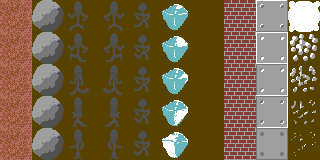
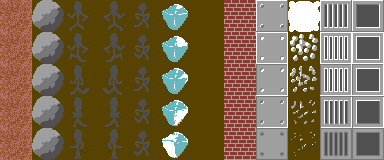
Trying to create exit

diff --git a/map.c b/map.c
@@ -5,18 +5,20 @@
 #include <string.h>
 
 char *block_name(block_type b) {
-  switch (b) {
-  case DIRT: return "DIRT";
-  case ROCK: return "ROCK";
-  case ROCKFORD: return "ROCKFORD";
-  case DIAMOND: return "DIAMOND";
-  case AIR: return "AIR";
-  case BRICK: return "BRICK";
-  case STEEL: return "STEEL";
-  case DUST: return "DUST";
-  case NUM_BLOCKS: return "NUM_BLOCKS";
-  }
-  return "NOT A BLOCK";
+	switch (b) {
+	case DIRT: return "DIRT";
+	case ROCK: return "ROCK";
+	case ROCKFORD: return "ROCKFORD";
+	case DIAMOND: return "DIAMOND";
+	case AIR: return "AIR";
+	case BRICK: return "BRICK";
+	case STEEL: return "STEEL";
+	case DUST: return "DUST";
+	case CLOSED_EXIT: return "EXIT";
+	case OPEN_EXIT: return "EXIT";
+	case NUM_BLOCKS: return "NUM_BLOCKS";
+}
+return "NOT A BLOCK";
 }
 
 void write_block(FILE *f, int x, int y, map m) {
@@ -67,129 +69,152 @@ map map_from_file(FILE *f) {
 }
 
 block create_block(block_type type) {
-  block b;
-  b.type = type;
-  b.properties = 0x0;
-  switch (type) {
-  case DIRT:
-    b.properties |= IT_COLLIDES | IS_DIGGABLE;
-    break;
-  case ROCK:
-    b.properties |= HAS_GRAVITY | IT_COLLIDES | IS_UNSTABLE | IS_PUSHABLE;
-    break;
-  case ROCKFORD:
-    b.properties |= IT_COLLIDES;
-    break;
-  case DIAMOND:
-    b.properties |= HAS_GRAVITY | IT_COLLIDES | IS_UNSTABLE | IS_DIGGABLE;
-    break;
-  case AIR:
-    break;
-  case BRICK:
-    b.properties |= IT_COLLIDES;
-    break;
-  case STEEL:
-    b.properties |= IT_COLLIDES | IS_UNSTABLE | UNBREAKABLE;
-    break;
-  case DUST:
-    b.properties |= IT_COLLIDES | IS_DIGGABLE | DOES_VANISH;
-    break;
-  default:
-    fprintf(stderr, "ERROR: received weird block type \"%s\"\n",
-            block_name(type));
-    break;
-  }
-  return b;
+	block b;
+	b.type = type;
+	b.properties = 0x0;
+	switch (type) {
+	case DIRT:
+		b.properties |= IT_COLLIDES | IS_DIGGABLE;
+		break;
+	case ROCK:
+		b.properties |= HAS_GRAVITY | IT_COLLIDES | IS_UNSTABLE | IS_PUSHABLE;
+		break;
+	case ROCKFORD:
+		b.properties |= IT_COLLIDES;
+		break;
+	case DIAMOND:
+	  b.properties |= HAS_GRAVITY | IT_COLLIDES | IS_UNSTABLE | IS_DIGGABLE;
+	  break;
+	case AIR:
+	  break;
+	case BRICK:
+	  b.properties |= IT_COLLIDES;
+	  break;
+	case STEEL:
+	  b.properties |= IT_COLLIDES | IS_UNSTABLE | UNBREAKABLE;
+	  break;
+	case DUST:
+	  b.properties |= IT_COLLIDES | IS_DIGGABLE | DOES_VANISH;
+	  break;
+	case CLOSED_EXIT:
+	  b.properties |= IT_COLLIDES | UNBREAKABLE;
+	  break;
+	case OPEN_EXIT:
+	  b.properties |= IS_DIGGABLE;
+	  break;
+	default:
+	  fprintf(stderr, "ERROR: received weird block type \"%s\"\n",
+	          block_name(type));
+	  break;
+	}
+return b;
 }
 
 map map_from_string(char *map_str) {
-  map m;
-  int total_len = strlen(map_str);
-  m.width = 0;
-  m.height = 0;
+	map m;
+	int total_len = strlen(map_str);
+	m.width = 0;
+	m.height = 0;
+	m.rockford_x = 0;
+	m.rockford_y = 0;
+	m.exit_x = 0;
+	m.exit_y = 0;
+	
+	// find out the width of the map
+	for (m.width = 0; map_str[m.width] != '\n'; m.width++);
+	
+	// Because total_len counts '\n', we have height-1 lines with '\n'
+	// and one without '\n'. Thus:
+	// total_len = (width + 1) * ( height - 1) + width
+	//   = width * height - width + height - 1 + width
+	//   = width * height + height - 1
+	//   = (width + 1) * height - 1
+	//   => (total_len + 1) / (width + 1) = height
+	m.height = (total_len + 1) / (m.width + 1);
+	
+	fprintf(stderr, "Reading a map with width %d and height %d\n", m.width,
+	        m.height);
+	
+	m.board = calloc(m.width * m.height, sizeof(*(m.board)));
+	if (!m.board) {
+		fprintf(stderr, "ERROR: Could not allocate memory for the board\n");
+		exit(1);
+	}
+	
+	for (int y = 0; y < m.height; y++) {
+		for (int x = 0; x < m.width; x++) {
+			char c = map_str[y * (m.width + 1) + x]; 
+			switch (c) {
+			case 'D':
+				m.board[y * m.width + x] = create_block(DIRT);
+				break;
+			case 'O':
+				m.board[y * m.width + x] = create_block(ROCK);
+				break;
+			case 'R':
+				m.board[y * m.width + x] = create_block(ROCKFORD);
+				m.rockford_x = x;
+				m.rockford_y = y;
+				break;
+			case '*':
+				m.needed_diamonds++; // count the amount of diamonds
+				m.board[y * m.width + x] = create_block(DIAMOND);
+				break;
+			case ' ':
+				m.board[y * m.width + x] = create_block(AIR);
+				break;
+			case '#':
+				m.board[y * m.width + x] = create_block(BRICK);
+				break;
+			case '%':
+				m.board[y * m.width + x] = create_block(STEEL);
+				break;
+			case '@':
+				m.board[y * m.width + x] = create_block(DUST);
+				break;
+			case 'E':
+				m.board[y * m.width + x] = create_block(CLOSED_EXIT);
+				m.exit_x = x;
+				m.exit_y = y;
+				break;
+			case 'e':
+				m.board[y * m.width + x] = create_block(OPEN_EXIT);
+				m.exit_x = x;
+				m.exit_y = y;
+			default:
+				fprintf(stderr, "Unexpected '%c' (0x%x) while reading a map.\n", c, c);
+			}
+		}
+}
 
-  // find out the width of the map
-  for (m.width = 0; map_str[m.width] != '\n'; m.width++);
-
-  // Because total_len counts '\n', we have height-1 lines with '\n'
-  // and one without '\n'. Thus:
-  // total_len = (width + 1) * ( height - 1) + width
-  //   = width * height - width + height - 1 + width
-  //   = width * height + height - 1
-  //   = (width + 1) * height - 1
-  //   => (total_len + 1) / (width + 1) = height
-  m.height = (total_len + 1) / (m.width + 1);
-
-  fprintf(stderr, "Reading a map with width %d and height %d\n", m.width,
-          m.height);
-
-  m.board = calloc(m.width * m.height, sizeof(*(m.board)));
-  if (!m.board) {
-    fprintf(stderr, "ERROR: Could not allocate memory for the board\n");
-    exit(1);
-  }
-
-  for (int y = 0; y < m.height; y++) {
-    for (int x = 0; x < m.width; x++) {
-      char c = map_str[y * (m.width + 1) + x]; 
-      switch (c) {
-      case 'D':
-        m.board[y * m.width + x] = create_block(DIRT);
-        break;
-      case 'O':
-        m.board[y * m.width + x] = create_block(ROCK);
-        break;
-      case 'R':
-        m.board[y * m.width + x] = create_block(ROCKFORD);
-        m.rockford_x = x;
-        m.rockford_y = y;
-        break;
-      case '*':
-		m.needed_diamonds++; // count the amount of diamonds
-        m.board[y * m.width + x] = create_block(DIAMOND);
-        break;
-      case ' ':
-        m.board[y * m.width + x] = create_block(AIR);
-        break;
-      case '#':
-        m.board[y * m.width + x] = create_block(BRICK);
-        break;
-      case '%':
-        m.board[y * m.width + x] = create_block(STEEL);
-        break;
-      case '@':
-        m.board[y * m.width + x] = create_block(DUST);
-        break;
-      default:
-        fprintf(stderr, "Unexpected '%c' (0x%x) while reading a map.\n", c, c);
-      }
-    }
-  }
-
-  return m;
+return m;
 }
 
 static char block_char(block_type b) {
-  switch (b) {
-  case DIRT:
-    return 'D';
-  case ROCK:
-    return 'O';
-  case ROCKFORD:
-    return 'R';
-  case DIAMOND:
-    return '*';
-  case AIR:
-    return ' ';
-  case BRICK:
-    return '#';
-  case STEEL:
-    return '%';
-  case DUST:
-    return '@';
-  default:
-    return '?';
-  }
+	switch (b) {
+	case DIRT:
+		return 'D';
+	case ROCK:
+		return 'O';
+	case ROCKFORD:
+		return 'R';
+	case DIAMOND:
+		return '*';
+	case AIR:
+		return ' ';
+	case BRICK:
+		return '#';
+	case STEEL:
+		return '%';
+	case DUST:
+		return '@';
+	case CLOSED_EXIT:
+		return 'E';
+	case OPEN_EXIT:
+		return 'e';
+	default:
+		return '?';
+	}
 }
 
 void write_map(FILE *f, map m) {

diff --git a/map.h b/map.h
@@ -15,6 +15,8 @@ typedef enum {
 	BRICK,
 	STEEL,
 	DUST,
+	CLOSED_EXIT,
+	OPEN_EXIT,
 	NUM_BLOCKS
 } block_type;
 
@@ -22,13 +24,13 @@ typedef enum {
 	HAS_GRAVITY =   0x1,    // Can be push down every update if nothing blocks it.
 	IT_COLLIDES =   0x2,    // Can prevent a block with gravity to fall.
 	IS_UNSTABLE =   0x4,    // In the case of a block with gravity is over it, if 
-												// the above block slips to a side.
+							// the above block slips to a side.
 	IN_MOVEMENT =   0x8,    // If movement have started.
-	IS_PUSHABLE =  0x10,   // If Rockford can push the block.
-	IS_DIGGABLE =  0x20,   // If Rockford can dig/collect the block.
-	HAS_CHANGED =  0x40,   // If the block changed this frame already.
-	UNBREAKABLE =  0x80,   // If the block can be broke (exploded for example).
-	DOES_VANISH = 0x100,   // If the block can be broke (exploded for example).
+	IS_PUSHABLE =  0x10,    // If Rockford can push the block.
+	IS_DIGGABLE =  0x20,    // If Rockford can dig/collect the block.
+	HAS_CHANGED =  0x40,    // If the block changed this frame already.
+	UNBREAKABLE =  0x80,    // If the block can be broke (exploded for example).
+	DOES_VANISH = 0x100,    // If the block can be broke (exploded for example).
 } block_property;
 
 typedef struct {
@@ -40,6 +42,7 @@ typedef struct {
 	block *board;
 	int width, height;
 	int rockford_x, rockford_y;
+	int exit_x, exit_y;
 	int needed_diamonds;
 } map;
 

diff --git a/game_state.c b/game_state.c
@@ -33,6 +33,7 @@ void init_game(game_state *game, int width, int height, float zoom,
 	init_allegro(width, height, game);
 	fprintf(stderr, "Finished loading Allegro.\n");
 	load_map(game, level_path);
+	write_map(stderr, game->curr_map);
 	fprintf(stderr, "Finished loading map.\n");
 	load_texture_system(&game->texture_system, atlas_path);
 	fprintf(stderr, "Finished loading texture system.\n");

diff --git a/texture.c b/texture.c
@@ -59,6 +59,8 @@ void load_texture_system(texture_system *ts, char *atlas_path) {
 	ts->curr_textures[BRICK] = T_BRICK;
 	ts->curr_textures[STEEL] = T_STEEL;
 	ts->curr_textures[DUST] = T_DUST;
+	ts->curr_textures[CLOSED_EXIT] = T_CLOSED_EXIT;
+	ts->curr_textures[OPEN_EXIT] = T_OPEN_EXIT;
 
 	for (int i = 0; i < T_NUM; i++) {
 		for (int j = 0; j < ts->animation_frames; j++) {

diff --git a/texture.h b/texture.h
@@ -17,6 +17,8 @@ typedef enum {
 	T_BRICK,
 	T_STEEL,
 	T_DUST,
+	T_CLOSED_EXIT,
+	T_OPEN_EXIT,
 	T_NUM
 } texture;
 
